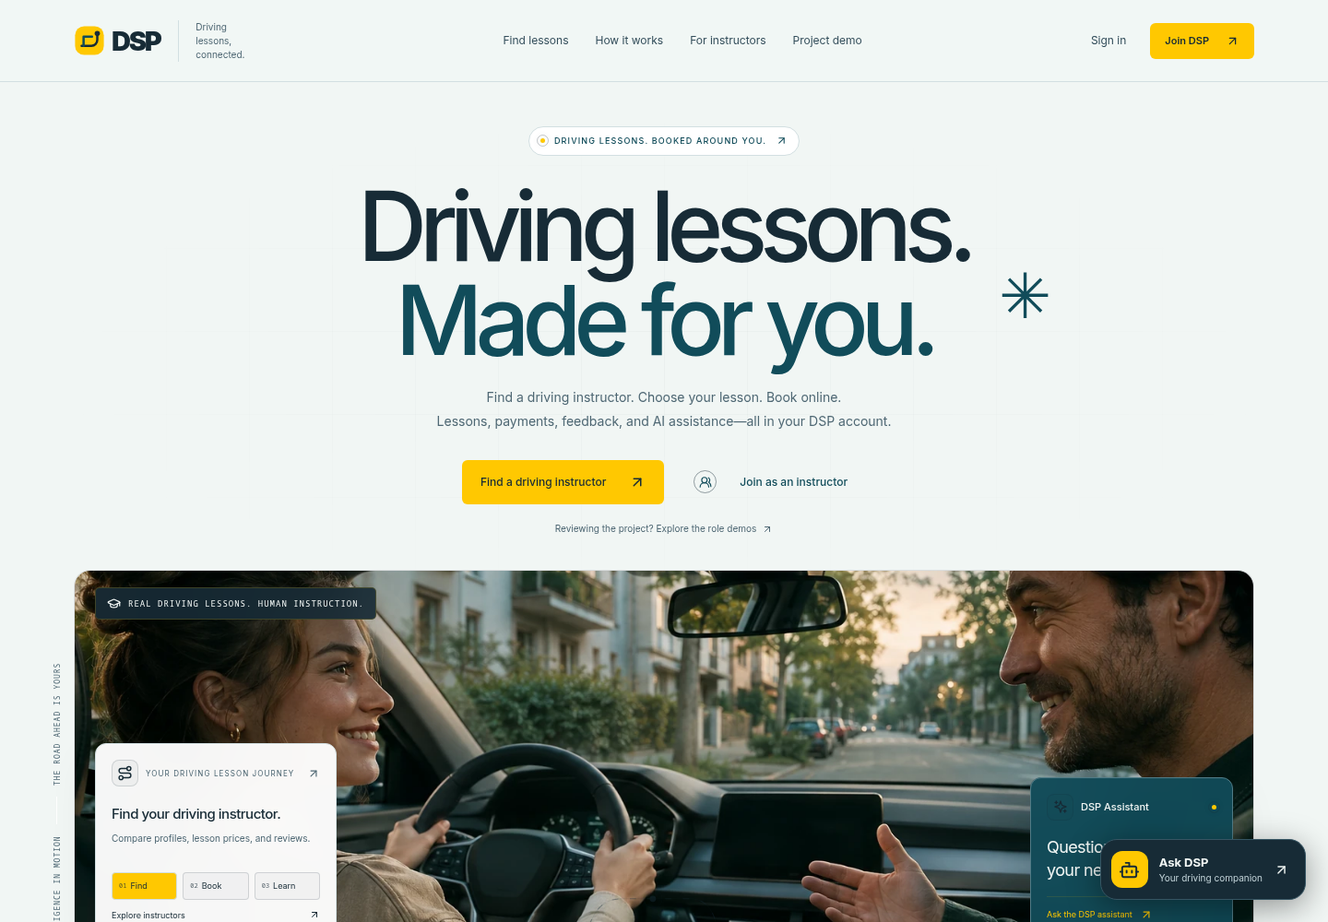
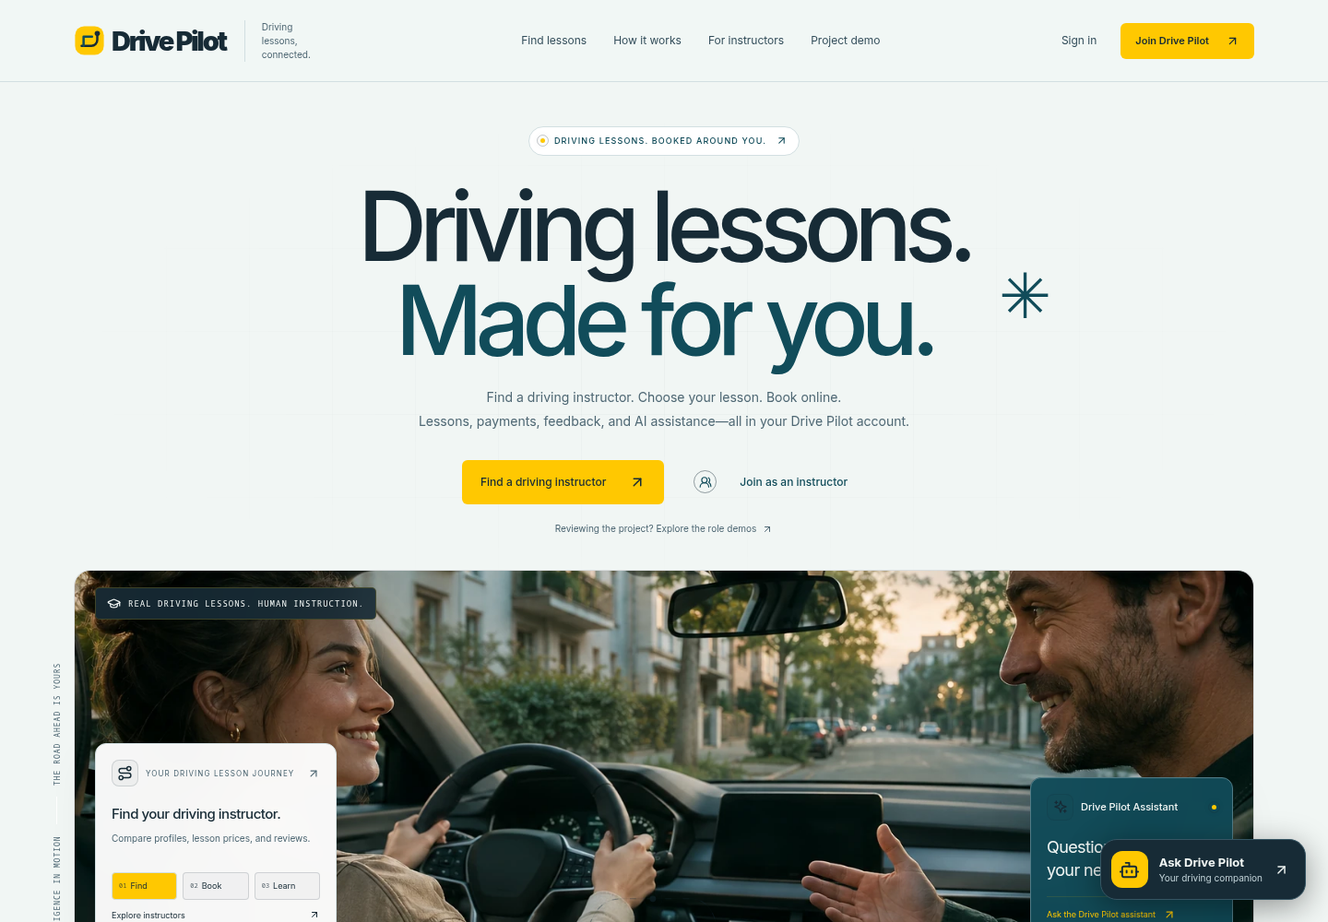
feat(ui):update the skills section and hero page

diff --git a/src/lib/projects.ts b/src/lib/projects.ts
@@ -61,17 +61,17 @@ export const projects: Project[] = [
     flow: getArchitectureFlow("trace-ops"),
   },
   {
-    slug: "hr-intelligence",
-    title: "HR Intelligence",
-    shortTitle: "HR Intelligence",
+    slug: "case-lens",
+    title: "Case Lens",
+    shortTitle: "Case Lens",
     category: "Applied AI · HR Operations",
     tagline: "The right employee context. Inside the conversation.",
     overview:
       "An Intercom-integrated HR case intelligence platform that identifies employees, classifies cases, surfaces related histories, and recommends stakeholders inside the support workflow, with a separate operations dashboard for review.",
     role: "Full-stack development across the Next.js dashboard, TypeScript API, Intercom Canvas and webhooks, Gemini intelligence, Box directory sync, durable ingestion, and background processing.",
     tags: ["Next.js", "Gemini", "Intercom", "PostgreSQL", "Apify"],
-    stack: getProjectStack("hr-intelligence"),
-    stackGroups: projectStacks["hr-intelligence"],
+    stack: getProjectStack("case-lens"),
+    stackGroups: projectStacks["case-lens"],
     features: [
       "Intercom sidebar with employee identity, classification, related history, and recommended CC contacts.",
       "Gemini analysis, alias-aware matching, related-case retrieval, and persistent human corrections.",
@@ -88,24 +88,24 @@ export const projects: Project[] = [
     impact:
       "Connects identity resolution, related-case evidence, and stakeholder routing to the agent's existing workflow, with human review and traceable processing.",
     note: "The public walkthrough uses synthetic reviewer data. Apify is the active deployment path; BullMQ is a supported alternative architecture.",
-    github: "https://github.com/Zebishah/Hr-intercom",
+    github: "https://github.com/Zebishah/CaseLens",
     demo: "https://nagumo-hr-intelligence.vercel.app",
     accent: ["#e4e5cf", "#244735"],
-    cover: "/projects/hr-intelligence.png",
-    flow: getArchitectureFlow("hr-intelligence"),
+    cover: "/projects/case-lens.png",
+    flow: getArchitectureFlow("case-lens"),
   },
   {
-    slug: "dsp",
-    title: "DSP Marketplace",
-    shortTitle: "DSP",
+    slug: "drive-pilot",
+    title: "Drive Pilot",
+    shortTitle: "Drive Pilot",
     category: "Full-stack · Marketplace & Payments",
     tagline: "A lesson marketplace with a serious payment engine.",
     overview:
       "An end-to-end driving lesson marketplace connecting students, instructors, and administrators. Instructor discovery, timezone-aware booking, real-time messaging, learning progress, and document verification meet a complete Stripe payment lifecycle.",
     role: "Full-stack engineering across role-based dashboards, GraphQL APIs, scheduling, messaging, Stripe checkout and Connect payouts, refund consistency, and background processing.",
     tags: ["React", "GraphQL", "Stripe Connect", "MongoDB", "Redis"],
-    stack: getProjectStack("dsp"),
-    stackGroups: projectStacks["dsp"],
+    stack: getProjectStack("drive-pilot"),
+    stackGroups: projectStacks["drive-pilot"],
     features: [
       "Scoped student, instructor, and administrator workflows and dashboards.",
       "Discovery, availability, timezone-aware lessons, rescheduling, and progress tracking.",
@@ -122,24 +122,24 @@ export const projects: Project[] = [
     impact:
       "Connects the customer booking experience to dependable payment and instructor workflows, including refund and payout handling.",
     note: "The public demo shows the product experience. Payment capabilities describe implemented integration paths, not claims of public transaction volume.",
-    github: "https://github.com/Zebishah/dsp-marketplace",
+    github: "https://github.com/Zebishah/DrivePilot",
     demo: "https://dsp-marketplace.vercel.app",
     accent: ["#d8e5e7", "#144952"],
-    cover: "/projects/dsp.png",
-    flow: getArchitectureFlow("dsp"),
+    cover: "/projects/drive-pilot.png",
+    flow: getArchitectureFlow("drive-pilot"),
   },
   {
-    slug: "rta-mark",
-    title: "RTA Marketing",
-    shortTitle: "RTA",
+    slug: "dealer-flow",
+    title: "Dealer Flow",
+    shortTitle: "Dealer Flow",
     category: "Full-stack · Automotive Intelligence",
     tagline: "Dealership operations, connected to vehicle intelligence.",
     overview:
       "An automotive sales CRM and vehicle-intelligence platform combining leads, appointments, follow-ups, deals, commissions, analytics, inventory comparisons, and a role-aware AI assistant.",
     role: "Full-stack engineering across dealership workflows, React interfaces, typed APIs, PostgreSQL data models, vehicle acquisition, AI tools, and asynchronous ingestion architectures.",
     tags: ["React", "PostgreSQL", "Apify", "Puppeteer", "AI Tools"],
-    stack: getProjectStack("rta-mark"),
-    stackGroups: projectStacks["rta-mark"],
+    stack: getProjectStack("dealer-flow"),
+    stackGroups: projectStacks["dealer-flow"],
     features: [
       "Role-aware leads, appointments, follow-ups, sales, commissions, and reporting.",
       "Multi-source vehicle acquisition, normalized listings, comparisons, and source-health visibility.",
@@ -156,11 +156,11 @@ export const projects: Project[] = [
     impact:
       "Connects CRM operations, inventory acquisition, and explainable assistance while keeping long-running scraping outside interactive requests.",
     note: "Reviewed from portfolio-hardening. The current demo uses Apify; SQS/Lambda and BullMQ/Azure are retained earlier paths, separate from the active runtime.",
-    github: "https://github.com/Zebishah/Rta-mark",
+    github: "https://github.com/Zebishah/DealerFlow",
     demo: "https://rta-dealership-web.vercel.app",
     accent: ["#e9ddcb", "#634e30"],
-    cover: "/projects/rta-mark.png",
-    flow: getArchitectureFlow("rta-mark"),
+    cover: "/projects/dealer-flow.png",
+    flow: getArchitectureFlow("dealer-flow"),
   },
 ];
 export const getProject = (slug: string) => projects.find((project) => project.slug === slug);

diff --git a/src/lib/projectArchitectures.ts b/src/lib/projectArchitectures.ts
@@ -256,7 +256,7 @@ export const projectArchitectures: Record<string, ProjectArchitecture> = {
     context:
       "This map groups the implemented lifecycle. Clarification, no-action, approval, and rejection routes are conditional; an incident does not execute every stage. Training and voice depend on configuration.",
   },
-  "hr-intelligence": {
+  "case-lens": {
     headline: "Turn fragmented HR conversations into reviewable case intelligence.",
     description:
       "Signed intake, durable processing, employee identity, AI extraction, related history, and operator review share one PostgreSQL-backed case domain.",
@@ -491,7 +491,7 @@ export const projectArchitectures: Record<string, ProjectArchitecture> = {
     context:
       "The map groups the case lifecycle and its review/recovery paths. Apify is the current background-processing path; BullMQ is a supported alternative. Public walkthroughs use synthetic reviewer data.",
   },
-  dsp: {
+  "drive-pilot": {
     headline: "Connect a lesson booking to a dependable financial lifecycle.",
     description:
       "Student, instructor, and administrator experiences meet scheduling, payments, durable events, payouts, and reconciliation.",
@@ -725,7 +725,7 @@ export const projectArchitectures: Record<string, ProjectArchitecture> = {
     context:
       "These layers describe the marketplace lifecycle. Scheduled charges, refunds, rescheduling, and payouts are conditional paths; they are not operations every booking performs. No public transaction-volume claim is made.",
   },
-  "rta-mark": {
+  "dealer-flow": {
     headline: "Connect dealership operations to trustworthy vehicle intelligence.",
     description:
       "Role-scoped CRM workflows, on-demand acquisition, durable inventory, operational visibility, and a read-only assistant work across shared application boundaries.",

diff --git a/src/routes/projects.$slug.tsx b/src/routes/projects.$slug.tsx
@@ -7,10 +7,18 @@ import { Reveal } from "@/components/portfolio/Reveal";
 import { getProject, projects } from "@/lib/projects";
 import { ProjectTechStack } from "@/components/portfolio/ProjectTechStack";
 
+const legacyProjectSlugs = new Map([
+  ["ops-pilot", "trace-ops"],
+  ["hr-intelligence", "case-lens"],
+  ["dsp", "drive-pilot"],
+  ["rta-mark", "dealer-flow"],
+]);
+
 export const Route = createFileRoute("/projects/$slug")({
   loader: ({ params }) => {
-    if (params.slug === "ops-pilot") {
-      throw redirect({ to: "/projects/$slug", params: { slug: "trace-ops" }, statusCode: 301 });
+    const canonicalSlug = legacyProjectSlugs.get(params.slug);
+    if (canonicalSlug) {
+      throw redirect({ to: "/projects/$slug", params: { slug: canonicalSlug }, statusCode: 301 });
     }
     const project = getProject(params.slug);
     if (!project) throw notFound();

diff --git a/src/components/portfolio/ProjectsGrid.tsx b/src/components/portfolio/ProjectsGrid.tsx
@@ -42,11 +42,7 @@ function ProjectCard({ project, index }: { project: Project; index: number }) {
               <i />
               <i />
               <i />
-              <span>
-                {project.slug === "trace-ops"
-                  ? "Trace Ops · Product preview"
-                  : new URL(project.demo).hostname}
-              </span>
+              <span>{project.title} · Product preview</span>
               <ArrowUpRight size={12} />
             </div>
             <img
@@ -120,7 +116,7 @@ export function ProjectsGrid() {
         <div>
           <ArrowDownRight size={58} strokeWidth={1} />
           <p>
-            AI investigations. HR intelligence.
+            AI investigations. HR case intelligence.
             <br />
             Payments. Vehicle data.
             <br />

diff --git a/src/lib/projectStacks.ts b/src/lib/projectStacks.ts
@@ -183,7 +183,7 @@ export const projectStacks: Record<string, ProjectStackGroup[]> = {
       ],
     },
   ],
-  "hr-intelligence": [
+  "case-lens": [
     {
       title: "AI agents & retrieval",
       items: ["Gemini API", "Semantic Search", "Read-only AI Tools"],
@@ -292,7 +292,7 @@ export const projectStacks: Record<string, ProjectStackGroup[]> = {
       reference: true,
     },
   ],
-  dsp: [
+  "drive-pilot": [
     {
       title: "Languages & interface",
       items: [
@@ -437,7 +437,7 @@ export const projectStacks: Record<string, ProjectStackGroup[]> = {
       ],
     },
   ],
-  "rta-mark": [
+  "dealer-flow": [
     {
       title: "Integrations & security",
       items: [

diff --git a/src/components/portfolio/SkillsAtlas.tsx b/src/components/portfolio/SkillsAtlas.tsx
@@ -375,12 +375,12 @@ export function SkillsAtlas() {
       )
     : [];
   const domainProjects: Record<number, string[]> = {
-    3: ["trace-ops", "hr-intelligence"],
+    3: ["trace-ops", "case-lens"],
     4: ["trace-ops"],
     5: ["trace-ops"],
     6: ["trace-ops"],
-    8: ["trace-ops", "hr-intelligence", "rta-mark"],
-    10: ["dsp"],
+    8: ["trace-ops", "case-lens", "dealer-flow"],
+    10: ["drive-pilot"],
     11: ["trace-ops"],
   };
   const related = exactProjects.length

diff --git a/src/components/portfolio/skillWorld.ts b/src/components/portfolio/skillWorld.ts
@@ -320,7 +320,8 @@ export const toolNotes: Record<string, { label: string; description: string }> =
   },
   "Stripe Connect": {
     label: "Marketplace payments",
-    description: "Connects marketplace checkout, connected accounts, and payment workflows in DSP.",
+    description:
+      "Connects marketplace checkout, connected accounts, and payment workflows in Drive Pilot.",
   },
   PostgreSQL: {
     label: "Relational application data",

diff --git a/docs/PORTFOLIO_CONTENT.md b/docs/PORTFOLIO_CONTENT.md
@@ -7,31 +7,30 @@ This implementation uses the user's résumé, additional skills, personal-projec
 - Supplied `Zohaib_Haider_Resume.pdf`: Jidat IT role and dates, 12+ commercial applications, 4+ payment-integrated applications, education, CGPA, and the software/cloud stack. The downloadable file is an unchanged copy at `public/resume.pdf`.
 - User's portfolio brief: 16–18 total projects, additional applied-AI skills, four featured repositories, contact details, and the selected cream/forest-green hero direction. The public statistic uses the conservative **16+ total projects**; commercial work is described separately.
 - [Trace Ops](https://github.com/Zebishah/TraceOps): dependency manifests; incident workflow graph; operational and approval services; fine-tuning modules; tests; project-knowledge documents; voice/fine-tuning implementation notes. The initial README labels many capabilities as planned, so descriptions were checked against the implementation and later documentation.
-- [HR Intelligence](https://github.com/Zebishah/Hr-intercom): README, Intercom/identity/intelligence modules, processing code, dependency manifests, and `docs/RECRUITER_EVIDENCE.md`.
-- [DSP Marketplace](https://github.com/Zebishah/dsp-marketplace): manifests, architecture and payment documentation, booking state-machine code, financial/outbox/cache services, and their test structure.
-- [RTA Marketing, portfolio-hardening branch](https://github.com/Zebishah/Rta-mark/tree/portfolio-hardening): current-production and overview architecture documents, AI assistant architecture, typed dealership API manifest, and acquisition/queue-worker structure. The repository's default `main` branch is an older implementation; the portfolio branch contains the current demo architecture.
+- [Case Lens](https://github.com/Zebishah/CaseLens): README, Intercom/identity/intelligence modules, processing code, dependency manifests, and `docs/RECRUITER_EVIDENCE.md`.
+- [Drive Pilot](https://github.com/Zebishah/DrivePilot): manifests, architecture and payment documentation, booking state-machine code, financial/outbox/cache services, and their test structure.
+- [Dealer Flow, portfolio-hardening branch](https://github.com/Zebishah/DealerFlow/tree/portfolio-hardening): current-production and overview architecture documents, AI assistant architecture, typed dealership API manifest, and acquisition/queue-worker structure. The repository's default `main` branch is an older implementation; the portfolio branch contains the current demo architecture.
 
 GitHub repository identities and access were checked using the connected GitHub app. All four repositories were private at implementation time. The cards and case studies label that access requirement; live demos remain public links.
 
 ## Important distinctions preserved in the copy
 
 - Trace Ops implements agentic investigation, RAG, scoped operational tools, approval/verification, incident memory, background processing, and an isolated fine-tuning pipeline. No production classifier-quality improvement, model benchmark, traffic volume, or customer SLA is invented. Recorded voice I/O is configuration-dependent, rather than a claimed continuous real-time assistant.
-- HR Intelligence is an **HR case intelligence and support workflow** integrated with Intercom, rather than a recruitment or résumé-screening product. Its public reviewer data is synthetic. Apify is the active background-processing path; BullMQ/Redis is retained as an alternative.
-- DSP covers student/instructor/admin scheduling, messaging, and payments. Stripe capabilities describe implemented paths, not unverified transaction counts or public revenue.
-- RTA's current deployment uses on-demand Apify, PostgreSQL, and ephemeral Redis. The SQS/Lambda and BullMQ/Azure code is described as retained earlier architecture, not the live default.
+- Case Lens is an **HR case intelligence and support workflow** integrated with Intercom, rather than a recruitment or résumé-screening product. Its public reviewer data is synthetic. Apify is the active background-processing path; BullMQ/Redis is retained as an alternative.
+- Drive Pilot covers student/instructor/admin scheduling, messaging, and payments. Stripe capabilities describe implemented paths, not unverified transaction counts or public revenue.
+- Dealer Flow's current deployment uses on-demand Apify, PostgreSQL, and ephemeral Redis. The SQS/Lambda and BullMQ/Azure code is described as retained earlier architecture, not the live default.
 - No client logos, testimonials, invented skill percentages, conversion improvements, or fabricated outcome metrics were added.
 
 ## Assets
 
 - `public/images/zohaib-haider.png` is an unchanged copy of the user's **Charcoal suit portrait with stylish glasses.png**. Its SHA-256 was compared with the source. The browser applies clipping, scaling, and 3D positioning; no generative edit was made to the face or eyes.
-- `public/projects/{hr-intelligence,dsp,rta-mark}.png` are browser screenshots of the user-supplied public URLs, captured on 2026-11-06. Screenshots contain each actual product, rather than fabricated interface mockups.
-- `public/projects/trace-ops.png` was refreshed from the working public demo on 2026-11-08. The user-authorized Trace Ops wordmark replaces the demo's previous brand in the captured preview; the underlying interface and synthetic records are unchanged. The live deployment still uses its previous brand. The former cover asset path remains a copy of this updated preview for compatibility.
+- `public/projects/{trace-ops,case-lens,drive-pilot,dealer-flow}.png` were refreshed from the working public demos on 2026-11-08. Preview wordmarks reflect the user-authorized names; the underlying interfaces and synthetic records are unchanged. Live deployments may still display earlier names. Former cover paths remain copies of the updated previews for compatibility.
 - Manrope and Barlow Condensed are self-hosted in `public/fonts`. Google Fonts source CSS and the corresponding OFL license files are retained there.
 - The skills sculpture is procedural Three.js geometry. Its React Three Fiber chunk is loaded on the client when the artwork enters the viewport. CSS artwork remains available if WebGL cannot render.
 
 ## Content maintenance
 
-- Trace Ops uses `/projects/trace-ops`; the former case-study route permanently redirects there. GitHub links use the verified renamed `Zebishah/TraceOps` repository. The existing working Vercel demo URL is retained until a replacement deployment URL is supplied.
+- Canonical case studies use `/projects/trace-ops`, `/projects/case-lens`, `/projects/drive-pilot`, and `/projects/dealer-flow`. Former paths permanently redirect to their renamed case studies. GitHub links use the verified renamed `Zebishah/TraceOps`, `Zebishah/CaseLens`, `Zebishah/DrivePilot`, and `Zebishah/DealerFlow` repositories. Working Vercel demo URLs are retained until replacement deployment URLs are supplied.
 
 - `src/lib/projects.ts`: the four case studies, exact GitHub/live URLs, stack, capability boundaries, and interactive workflow stages.
 - `src/lib/skills.ts`: categorized, searchable tools and engineering techniques from the résumé and additional skills. The displayed total is computed, not separately hard-coded.

diff --git a/docs/project-stack-sources.md b/docs/project-stack-sources.md
@@ -11,12 +11,12 @@ Material UI). Standalone type declaration packages and internal workspace
 imports are represented by TypeScript and their parent technologies. Lockfile
 transitive dependencies are not presented as independently selected tools.
 
-| Portfolio project | Repository snapshot                                                 | Direct dependency entries checked | Displayed tools and techniques |
-| ----------------- | ------------------------------------------------------------------- | --------------------------------: | -----------------------------: |
-| Trace Ops         | `Zebishah/TraceOps@97c40040f0ac9299766b3d5e831d726461c2b327`        |                                76 |                            131 |
-| HR Intelligence   | `Zebishah/Hr-intercom@cfe74e70b59c1da482e3bb80856fa72d22ae7fe1`     |                                49 |                             77 |
-| DSP Marketplace   | `Zebishah/dsp-marketplace@49266c96268e031350fbdfa030e2ad8a564c78bf` |                                96 |                            117 |
-| RTA Marketing     | `Zebishah/Rta-mark@67836d642f88996aa8ae3979ed9705db6f32714b`        |                                54 |                             80 |
+| Portfolio project | Repository snapshot                                            | Direct dependency entries checked | Displayed tools and techniques |
+| ----------------- | -------------------------------------------------------------- | --------------------------------: | -----------------------------: |
+| Trace Ops         | `Zebishah/TraceOps@97c40040f0ac9299766b3d5e831d726461c2b327`   |                                76 |                            131 |
+| Case Lens         | `Zebishah/CaseLens@cfe74e70b59c1da482e3bb80856fa72d22ae7fe1`   |                                49 |                             77 |
+| Drive Pilot       | `Zebishah/DrivePilot@49266c96268e031350fbdfa030e2ad8a564c78bf` |                                96 |                            117 |
+| Dealer Flow       | `Zebishah/DealerFlow@67836d642f88996aa8ae3979ed9705db6f32714b` |                                54 |                             80 |
 
 ## Trace Ops
 
@@ -35,7 +35,7 @@ transitive dependencies are not presented as independently selected tools.
 The training group describes a separate configured environment, not evidence of
 a production GPU/QLoRA run or model-quality result.
 
-## HR Intelligence
+## Case Lens
 
 - `Intercom-app/backend/package.json` and `frontend/package.json`: every direct
   application and development dependency, normalized by tool family.
@@ -46,7 +46,7 @@ a production GPU/QLoRA run or model-quality result.
 BullMQ and its optional Resend worker are shown as supported alternative paths.
 The documented current background-execution architecture uses Apify.
 
-## DSP Marketplace
+## Drive Pilot
 
 - `Frontend/package.json`: interface frameworks, state, GraphQL client, Stripe,
   maps, charts, documents, editors, carousels, utilities, and development tools.
@@ -57,7 +57,7 @@ The documented current background-execution architecture uses Apify.
   integrations, Elastic Email, Google/Facebook OAuth, Gemini-backed read-only
   assistance, scheduling, financial consistency, and verification.
 
-## RTA Marketing
+## Dealer Flow
 
 - `rta-marketing/package.json`, every `apps/*/package.json`, and every
   `packages/*/package.json`: all workspace application and development tools.

diff --git a/docs/project-architecture-sources.md b/docs/project-architecture-sources.md
@@ -14,9 +14,9 @@ Repository: `Zebishah/TraceOps`, snapshot `97c40040f0ac9299766b3d5e831d726461c2b
 
 The older `docs/architecture.md` describes LangGraph as a future phase; the implemented graph takes precedence. No separate reviewer/critic graph node is invented. Clarification, no-action, rejection, and approval paths are conditional. Public refund execution uses an internal simulated ledger, not a live payment-provider transfer. Automation acknowledgement is not evidence that downstream work completed. Voice is configuration dependent; training is isolated, with QLoRA dependent on supported CUDA hardware.
 
-## HR Intelligence
+## Case Lens
 
-Repository: `Zebishah/Hr-intercom`, snapshot `cfe74e70b59c1da482e3bb80856fa72d22ae7fe1`.
+Repository: `Zebishah/CaseLens`, snapshot `cfe74e70b59c1da482e3bb80856fa72d22ae7fe1`.
 
 - `docs/ARCHITECTURE.md` and `docs/RECRUITER_EVIDENCE.md`: current Actor topology, case evidence, human review, and supported alternatives.
 - `Intercom-app/backend/src/modules/ingestion/`: normalization, durable intake, Actor run state, error classification, and recovery.
@@ -24,9 +24,9 @@ Repository: `Zebishah/Hr-intercom`, snapshot `cfe74e70b59c1da482e3bb80856fa72d22
 
 Generic intake uses transactional ingestion/outbox; Intercom uses durable event/revision dispatch. They are grouped in the map without claiming identical mechanisms. Apify is the current processing path; BullMQ is a retained alternative. PostgreSQL owns durable case state; Redis holds ephemeral routing/directory/rate-limit data with database fallback. Human corrections survive routine subsequent analysis until explicit re-analysis. Read-only Ask CaseLens and fixture evaluation are supporting paths.
 
-## DSP Marketplace
+## Drive Pilot
 
-Repository: `Zebishah/dsp-marketplace`, snapshot `49266c96268e031350fbdfa030e2ad8a564c78bf`.
+Repository: `Zebishah/DrivePilot`, snapshot `49266c96268e031350fbdfa030e2ad8a564c78bf`.
 
 - `README.md`, `docs/ARCHITECTURE.md`, and client/server manifests: product surfaces and deployment stack.
 - `server/src/services/financialOperationService.js` and `financialReconciliationService.js`: operation records, idempotency, and reconciliation.
@@ -35,9 +35,9 @@ Repository: `Zebishah/dsp-marketplace`, snapshot `49266c96268e031350fbdfa030e2ad
 
 This is a booking and financial lifecycle map. Scheduled charging, cancellation, refund, and payout actions apply only when eligible; they are not mandatory steps for every booking. The assistant is a separate read-oriented product feature. No unsupported transaction-volume or business-impact metrics are displayed.
 
-## RTA Marketing
+## Dealer Flow
 
-Repository: `Zebishah/Rta-mark`, snapshot `67836d642f88996aa8ae3979ed9705db6f32714b`.
+Repository: `Zebishah/DealerFlow`, snapshot `67836d642f88996aa8ae3979ed9705db6f32714b`.
 
 - `rta-marketing/docs/architecture/current-production.md`: current React/Express/Neon/Upstash/Apify topology and ownership of inventory writes.
 - `rta-marketing/docs/architecture/ai-assistant.md`: authorized read tools, bounded contracts, deterministic answers, provider routing, and restrictions.

diff --git a/README.md b/README.md
@@ -29,7 +29,7 @@ The existing TanStack Start / Vite / Lovable build integration is retained. The 
 
 ## Content and assets
 
-- `src/lib/projects.ts` — Trace Ops, HR Intelligence, DSP Marketplace, and RTA Marketing, including exact demo/repository URLs and case-study content.
+- `src/lib/projects.ts` — Trace Ops, Case Lens, Drive Pilot, and Dealer Flow, including exact demo/repository URLs and case-study content.
 - `src/lib/skills.ts` — the complete categorized skills inventory.
 - `src/lib/socials.ts` — all contact, portrait, and résumé destinations.
 - `public/images/zohaib-haider.png` — the exact supplied glasses portrait, without face or eye editing.
